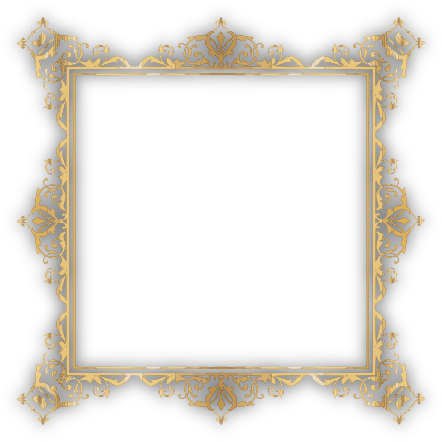
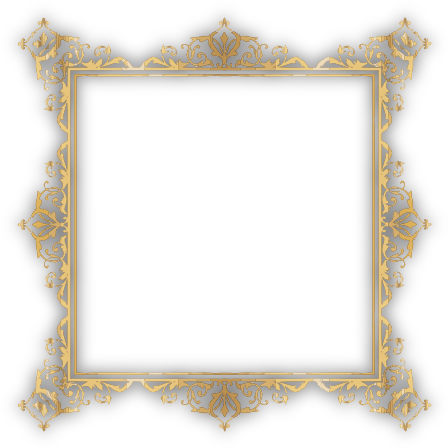
minified files 2024-11-28 00:40:13

diff --git a/index.html b/index.html
@@ -1,7 +1,7 @@
 <!doctype html><html lang=en><meta charset=utf-8><meta name=viewport content="width=device-width,initial-scale=1"><meta name=description content="A holy site for all NEETs, celebrating St. Pepe's financial miracle."><meta name=color-scheme content="light dark"><meta name=robots content="index, follow"><meta name=keywords content="saint pepe,st pepe,book of saint pepe,neet,crypto,memecoin,solana memecoin"><meta content="Ym9va29mc2FpbnRwZXBlLmNvbQ=="><link rel=preload href=code/fonts/vinque.otf as=font type=font/otf crossorigin=anonymous><link rel=preload href=images/stpepe-home.webp as=image type=image/webp><link rel=preload href=images/bg-sky.webp as=image type=image/webp><link rel=stylesheet href=code/css/style.css><title>𝖘𝖙 𝖕𝖊𝖕𝖊&nbsp;&nbsp;✠&nbsp;&nbsp;𝖕𝖆𝖙𝖗𝖔𝖓 𝖘𝖆𝖎𝖓𝖙 𝖔𝖋 𝖆𝖑𝖑 𝖓𝖊𝖊𝖙𝖘</title><script type=application/ld+json>{"@context":"http://schema.org","@type":"WebSite","name":"bookofsaintpepe.com ✠ Saint Pepe","url":"https://www.bookofsaintpepe.com","description":"A holy site for all NEETs, celebrating St. Pepe's financial miracle.","publisher":{"@type":"Organization","name":"Book of Saint Pepe Team - A Community-Driven Memecoin"}}</script><meta property="og:title" content="bookofsaintpepe.com ✠ Saint Pepe"><meta property="og:description" content="A holy site for all NEETs, celebrating St. Pepe's financial miracle."><meta property="og:image" content="https://www.bookofsaintpepe.com/images/saint-pepe-open-graph.jpg"><meta property="og:url" content="https://www.bookofsaintpepe.com/"><meta property="og:type" content="website"><meta property="og:locale" content="en_US"><meta name=twitter:card content="summary_large_image"><meta name=twitter:site content="@dig_dopa_dealer"><meta name=twitter:title content="bookofsaintpepe.com ✠ Saint Pepe"><meta name=twitter:description content="A holy site for all NEETs, celebrating St. Pepe's financial miracle."><meta name=twitter:image content="https://www.bookofsaintpepe.com/images/saint-pepe-x-card.jpg"><link rel=icon type=image/x-icon href=images/favicon.ico><link rel=apple-touch-icon sizes=180x180 href=images/apple-touch-icon.webp><style>.stpepe-home{margin-top:calc(-150px - 12%);opacity:0;transition:opacity .1s ease-out;display:block}.stpepe-home:not(:defined){opacity:1}.section-home{opacity:0;transition:opacity .1s ease-out;display:block;height:100vh}.section-home:not(:defined){opacity:1}@media(max-width:767px){.stpepe-home{margin-top:0;margin-bottom:-20%;position:relative;z-index:-200;padding:0 6%}.btn-buy{margin:.5em 0}.btn-gold-div{margin-top:-58%!important;position:relative}#text-box-mobile{margin-top:-37%;margin-bottom:37%}}</style><div id=section-home class=section style=background-image:url(images/bg-sky.webp);background-size:cover;background-repeat:no-repeat;padding-top:2%><div class=menu-wrapper style=z-index:2;margin-bottom:6%><input type=checkbox id=menu-toggle class=menu-toggle-checkbox>
 <label for=menu-toggle class=menu-toggle-label>☰</label><div class="menu pure-menu pure-menu-horizontal"><ul class=pure-menu-list><li class=pure-menu-item><a href=#about class=pure-menu-link>About</a><li class=pure-menu-item><a href=#tokenomics class=pure-menu-link>Tokenomics</a><li class=pure-menu-item><a href=#how class=pure-menu-link>How to buy</a><li class="pure-menu-item desktop"><a style=margin-top:.1em href="https://raydium.io/swap/?inputMint=sol&outputMint=Et63bkNtgp7nyvBMBxjKGBCjxet9Hrvm7qXpjnYSbKGh" class="pure-menu-link btn btn-buy">Buy Now</a><li class="pure-menu-item pure-menu-has-children"><a href=# class=pure-menu-link><img src=images/flag-US.webp class=flag>English</a><ul class=pure-menu-children><li class=pure-menu-item><a href=de/index.html class=pure-menu-link><img src=images/flag-DE.webp class=flag>German</a><li class=pure-menu-item><a href=jp/index.html class=pure-menu-link><img src=images/flag-JP.webp class=flag>Japanese</a><li class=pure-menu-item><a href=ru/index.html class=pure-menu-link><img src=images/flag-RU.webp class=flag>Russian</a><li class=pure-menu-item><a href=cn/index.html class=pure-menu-link><img src=images/flag-CN.webp class=flag>Chinese</a><li class=pure-menu-item><a href=es/index.html class=pure-menu-link><img src=images/flag-ES.webp class=flag>Spanish</a><li class=pure-menu-item><a href=br class=pure-menu-link><img src=images/flag-BR.webp class=flag>Portuguese</a><li class=pure-menu-item><a href=in/index.html class=pure-menu-link><img src=images/flag-IN.webp class=flag>Hindi</a><li class=pure-menu-item><a href=il/index.html class=pure-menu-link><img src=images/flag-IL.webp class=flag>Hebrew</a></ul></ul></div></div><script>window.addEventListener("load",function(){document.body.style.display="block",document.querySelector(".stpepe-home").style.opacity=1})</script><div class=pure-g><div class=pure-u-1-1 style=text-align:center><img style="width:32%;height:auto;min-width:300px;max-width:737px;padding-top:calc(15px + 2%);margin-top:-2%" src=images/logo-shadow.webp></div><div class="pure-u-1-1 mobile" style=text-align:center><a style=margin-top:-2%;margin-bottom:4% href="https://raydium.io/swap/?inputMint=sol&outputMint=Et63bkNtgp7nyvBMBxjKGBCjxet9Hrvm7qXpjnYSbKGh" class="pure-menu-link btn btn-buy">Buy Now</a></div><div class="pure-u-1-1 pure-u-md-11-24"><img class=stpepe-home style=display:block;max-width:100%;height:auto;z-index:0;width:100%;max-width:580px src=images/stpepe-home.webp><br></div><div class="pure-u-1 pure-u-md-13-24 centered"><div class=pure-g><div class=pure-u-1-1 style=margin-bottom:0;z-index:202><p style="text-align:center;margin:-12% 0 0" class=btn-gold-div><span class=btn-gold><img class=btn-gold src=images/icon-tg-new.webp style=width:15%;max-width:153px;min-width:70px></span>
 <span class=btn-gold><img class=btn-gold src=images/icon-x-new.webp style=width:15%;max-width:153px;min-width:70px></span></div><div class=pure-u-1-1><div><div class=text-box id=text-box-mobile style=z-index:200;position:relative><p style="margin:-1% 0 0">❝Blessed are the followers of <b>Saint Pepe</b>, for they shall receive <b>meme miracles</b>, find joy in simplicity, and be uplifted in unity.❞</div></div></div></div></div></div></div><div id=about style="margin-top:-11vh;background-image:linear-gradient(to bottom,#690001,#7D0707),url(images/bg-xv2.webp);background-blend-mode:overlay;position:relative;z-index:1;box-shadow:0 1px 8px rgba(0,0,0,.7)"><div style="background-image:url(images/separator2.webp);background-repeat:repeat-x;background-size:contain;height:4.3vw;max-height:70px;min-height:30px;width:auto;box-shadow:0 5px 8px rgba(0,0,0,.7)"></div><div class=section><div class=pure-g><div class=pure-u-1><p style=text-align:center><img src=images/dec-church.webp style="width:40%;min-width:260px;height:auto;max-width:524px;margin:0 0 -2em"><h1 class=golden-text style=margin-bottom:-3%>About</h1></div><div class=pure-u-12-24><p style=text-align:left;margin-top:-2%><img loading=lazy src=images/dec-cross-round.webp style="width:8%;height:auto;max-width:90px;margin:0 0 -1em 2%"></div><div class=pure-u-12-24><p style=text-align:right;margin-top:-2%><img loading=lazy src=images/dec-cross-round.webp style="width:8%;height:auto;max-width:90px;margin:0 2% -1em 0"></div><div class=pure-u-1 style="margin-top:-2%;background:#e8bd84;background-image:linear-gradient(to bottom,#E8BD84,#F7EAC8);padding:1px;margin:1% 1% 5%;box-shadow:0 1px 8px rgba(0,0,0,.7)"></div><div class="pure-u-1 pure-u-md-12-24"><div class=text-box style=color:#241f1c><h2>Saint Pepe<br>Patron Saint of All NEETs</h2><hr><p>St. Pepe lived an idle life, <b>never having worked a day in his life.</b> Through his staunch belief in not laboring, he became wealthy after heeding a holy opportunity, presented to him through a call in a basket-weaving forum. Now, after his physical death, he was canonized for his financial miracle, and promises hope to all who shun toiling and rewards their faith in him with the <b>holiest of gains</b>, through the asset of his Books.<p style=text-align:center><a href=# class="pure-menu-link btn btn-buy" style=box-shadow:none>Read the Book of St. Pepe</a></div></div><div class="pure-u-1 pure-u-md-12-24"><p style=text-align:center><img loading=lazy class=pure-img style="width:100%;height:auto;max-width:630px;margin:-3% 0 0" src=images/frame-pepe-laugh.webp></div></div></div></div><div id=tokenomics style="background-image:linear-gradient(to bottom,#2A211E,#201817),url(images/bg-xv2.webp);background-blend-mode:overlay;position:relative;margin-top:-1%;z-index:998"><div style="background-image:url(images/separator2.webp);background-repeat:repeat-x;background-size:contain;height:4.3vw;max-height:70px;min-height:30px;width:auto;box-shadow:0 5px 8px rgba(0,0,0,.7)"></div><div class=section style=padding-bottom:0><div class=pure-g><div class=pure-u-1><p style=text-align:center><img loading=lazy src=images/dec-abacus.webp style="width:15%;min-width:80px;height:auto;max-width:178px;margin:0 0 -2em"><h1 class=golden-text style=margin-bottom:-3%>Tokenomics</h1></div><div class=pure-u-12-24><p style=text-align:left;margin-top:-2%><img loading=lazy src=images/dec-cross-round.webp style="width:8%;height:auto;max-width:90px;margin:0 0 -1em 2%"></div><div class=pure-u-12-24><p style=text-align:right;margin-top:-2%><img loading=lazy src=images/dec-cross-round.webp style="width:8%;height:auto;max-width:90px;margin:0 2% -1em 0"></div><div class=pure-u-1 style="margin-top:-2%;background:#e8bd84;background-image:linear-gradient(to bottom,#E8BD84,#F7EAC8);padding:1px;margin:1% 1% 5%;box-shadow:0 1px 8px rgba(0,0,0,.7)"></div><div class="pure-u-1 pure-u-md-12-24"><div class=text-box><p><b>Total Supply: 777,777,777</b></div><div class=text-box><p><b>Liquidity: Consumed by Holy Fire</b></div></div><div class="pure-u-1 pure-u-md-12-24"><div class=text-box><p><b>Buy/Sell Tax: 0%</b></div><div class=text-box><p><b>Contract: Renounced of Sin</b></div></div></div><div class=pure-g><div class=pure-u-1><h1 class=golden-text style=text-align:center;margin-top:4%>Distribution</h1></div><div class=pure-u-12-24><p style=text-align:left;margin-top:-2%><img loading=lazy src=images/dec-cross-round.webp style="width:8%;height:auto;max-width:90px;margin:0 0 -1em 2%"></div><div class=pure-u-12-24><p style=text-align:right;margin-top:-2%><img loading=lazy src=images/dec-cross-round.webp style="width:8%;height:auto;max-width:90px;margin:0 2% -1em 0"></div><div class=pure-u-1 style="margin-top:-2%;background:#e8bd84;background-image:linear-gradient(to bottom,#E8BD84,#F7EAC8);padding:1px;margin:1% 1% 5%;box-shadow:0 1px 8px rgba(0,0,0,.7)"></div><div class=pure-u-1><p style=text-align:center><img loading=lazy class=pure-img style=position:relative;float:center;width:100%;height:auto;max-width:1230px;padding-top:3% src=images/distribution.webp></div><div class=pure-u-1><img loading=lazy class=pure-img style=float:left;margin-top:-33%;position:relative;width:33%;heigth:auto;max-width:400px src=images/stpepe-sheep.webp></div></div></div><img loading=lazy class=pure-img style="position:relative;width:100%;height:auto;margin:-2% 0 0" src=images/bg-rough-top.webp></div><div id=prayer class=section style=background:#263760><div class=pure-g><div class="pure-u-1 pure-u-lg-12-24"><div style=padding-right:15%><h2 class=golden-text style=text-align:left>Send your prayer</h2><br><input id=prayerInput class=input placeholder="Enter your prayer here"><br><br><label class=checkbox><input id=termsCheckbox type=checkbox>
-<span style=color:#fff>&nbsp;I agree to the sacred terms</span></label><p style=text-align:left><button id=submitButton class=btn-normal>Send prayer</button></p><br><br></div></div><div class="pure-u-1 pure-u-lg-12-24"><div><h2 class=golden-text style=text-align:left>Latest prayers</h2><p><button id=fetchButton class=btn-normal style=background-color:#28a745>Read the latest prayers</button><div class=prayers-list><ul id=prayersContainer></ul></div><br><br></div></div></div></div><img loading=lazy class=pure-img style="position:relative;z-index:1001;width:100%;height:auto;margin:-2% 0 0" src=images/bg-rough-bottom.webp><div id=tokenomics style="background-image:linear-gradient(to bottom,#2A211E,#201817),url(images/bg-xv2.webp);background-blend-mode:overlay;position:relative;z-index:2;margin-top:-3%;z-index:1000"><div class=section><div class=pure-g><div class=pure-u-1><p style=text-align:center><img loading=lazy src=images/dec-carriage.webp style="width:15%;min-width:80px;height:auto;max-width:234px;margin:0 0 -2.5em"><h1 class=golden-text style=margin-bottom:-3%>Roadmap</h1></div><div class=pure-u-12-24><p style=text-align:left;margin-top:-2%><img loading=lazy src=images/dec-cross-round.webp style="width:8%;height:auto;max-width:90px;margin:0 0 -1em 2%"></div><div class=pure-u-12-24><p style=text-align:right;margin-top:-2%><img loading=lazy src=images/dec-cross-round.webp style="width:8%;height:auto;max-width:90px;margin:0 2% -1em 0"></div><div class=pure-u-1 style="margin-top:-2%;background:#e8bd84;background-image:linear-gradient(to bottom,#E8BD84,#F7EAC8);padding:1px;margin:1% 1% 5%;box-shadow:0 1px 8px rgba(0,0,0,.7)"></div><div class="pure-u-1 pure-u-md-8-24"><h2 class=golden-text>To-do</h2><div class=text-box style=color:#241f1c><p class=kb>Exchange listing disclosures<p class=kb>Exchange listing disclosures<p class=kb>Exchange listing disclosures<p class=kb>Exchange listing disclosures<p class=kb>Exchange listing disclosures</div></div><div class="pure-u-1 pure-u-md-8-24"><h2 class=golden-text>Being Done</h2><div class=text-box style=color:#241f1c><p class=kb>Exchange listing disclosures<p class=kb>Exchange listing disclosures<p class=kb>Exchange listing disclosures<p class=kb>Exchange listing disclosures<p class=kb>Exchange listing disclosures</div></div><div class="pure-u-1 pure-u-md-8-24"><h2 class=golden-text>Done</h2><div class=text-box style=color:#241f1c><p class=kb>Exchange listing disclosures <span style=white-space:nowrap>✅ Nov 27 2024</span><p class=kb>Exchange listing disclosures <span style=white-space:nowrap>✅ Nov 27 2024</span><p class=kb>Exchange listing disclosures <span style=white-space:nowrap>✅ Nov 27 2024</span><p class=kb>Exchange listing disclosures <span style=white-space:nowrap>✅ Nov 27 2024</span><p class=kb>Exchange listing disclosures <span style=white-space:nowrap>✅ Nov 27 2024</span></div></div></div></div></div><img loading=lazy class=pure-img style="position:relative;z-index:1000;width:100%;height:auto;margin:-2% 0 0" src=images/bg-disciples.webp><div id=roadmap style="background-image:linear-gradient(to bottom,#690001,#7D0707),url(images/bg-xv2.webp);background-blend-mode:overlay;position:relative;z-index:2;margin-top:-2%;z-index:999;box-shadow:0 1px 8px rgba(0,0,0,.7)"><div class=section><div class=pure-g><div class=pure-u-1><p style=text-align:center><img loading=lazy src=images/dec-church.webp style="width:40%;min-width:260px;height:auto;max-width:524px;margin:0 0 -2em"><h1 class=golden-text style=margin-bottom:-3%>Creed</h1></div><div class=pure-u-12-24><p style=text-align:left;margin-top:-2%><img loading=lazy src=images/dec-cross-round.webp style="width:8%;height:auto;max-width:90px;margin:0 0 -1em 2%"></div><div class=pure-u-12-24><p style=text-align:right;margin-top:-2%><img loading=lazy src=images/dec-cross-round.webp style="width:8%;height:auto;max-width:90px;margin:0 2% -1em 0"></div><div class=pure-u-1 style="margin-top:-2%;background:#e8bd84;background-image:linear-gradient(to bottom,#E8BD84,#F7EAC8);padding:1px;margin:1% 1% 5%;box-shadow:0 1px 8px rgba(0,0,0,.7)"></div><div class="pure-u-1 pure-u-md-12-24"><div style=color:#241f1c><img loading=lazy class=pure-img style="float:center;width:100%;height:auto;max-width:620px;margin:4% 0 0" src=images/bg-scroll.webp><div style="position:relative;margin:-120% 20% 80%"><h2>St. Pepe's Creed<br><br></h2><p><b>❈ Be a NEET<br><br>❈ Hold token<br><br>❈ Trust me bro</b></div></div></div><div class="pure-u-1 pure-u-md-12-24"><p style=text-align:center><br><br><br><br><img loading=lazy class=pure-img style="width:100%;height:auto;max-width:630px;margin:-3% 0 0" src=images/frame-pepe-wagie.webp></div></div></div></div><div id=how style="background-image:linear-gradient(to bottom,#101626,#18223A),url(images/bg-xv2.webp);background-blend-mode:overlay;position:relative;z-index:2;margin-top:-1%;z-index:1000"><div style="background-image:url(images/separator2.webp);background-repeat:repeat-x;background-size:contain;height:4.3vw;max-height:70px;min-height:30px;width:auto;box-shadow:0 1px 8px rgba(0,0,0,.7)"></div><div class=section style=padding-bottom:0><div class=pure-g><div class=pure-u-1><p style=text-align:center><img loading=lazy src=images/dec-chest.webp style="width:15%;min-width:80px;height:auto;max-width:217px;margin:0 0 -2.5em"><h1 class=golden-text style=margin-bottom:-3%>How to buy</h1></div><div class=pure-u-12-24><p style=text-align:left;margin-top:-2%><img loading=lazy src=images/dec-cross-round.webp style="width:8%;height:auto;max-width:50px;margin:0 0 -1em 2%"></div><div class=pure-u-12-24><p style=text-align:right;margin-top:-2%><img loading=lazy src=images/dec-cross-round.webp style="width:8%;height:auto;max-width:50px;margin:0 2% -1em 0"></div><div class=pure-u-1 style="margin-top:-2%;background:#e8bd84;background-image:linear-gradient(to bottom,#E8BD84,#F7EAC8);padding:1px;margin:1% 1% 5%;box-shadow:0 1px 8px rgba(0,0,0,.7)"></div><div class="pure-u-1 pure-u-lg-12-24"><div class=text-box style="color:#241f1c;margin:3% 1.5%"><div class=pure-g><div class=pure-u-4-24><img loading=lazy src=images/dec-1.webp style=width:4.1vw;height:auto;max-width:78px;min-width:50px></div><div class=pure-u-16-24><h2>Use Phantom<br>Wallet</h2><hr></div><div class=pure-u-4-24><img loading=lazy src=images/buy-1.webp style=float:right;width:4.1vw;height:auto;max-width:78px;min-width:50px></div><div class=pure-u-1><p>Get Phantom Wallet for free from the App Store, Google Play, or as a Chrome extension at phantom.app. Ensure you only download from official sources to keep your assets safe.</div></div></div></div><div class="pure-u-1 pure-u-lg-12-24"><div class=text-box style="color:#241f1c;margin:3% 1.5%"><div class=pure-g><div class=pure-u-4-24><img loading=lazy src=images/dec-2.webp style=width:4.1vw;height:auto;max-width:78px;min-width:50px></div><div class=pure-u-16-24><h2>Add<br>Solana</h2><hr></div><div class=pure-u-4-24><img loading=lazy src=images/buy-2.webp style=float:right;width:4.1vw;height:auto;max-width:78px;min-width:50px></div><div class=pure-u-1><p>Fund your wallet with SOL by buying it in Phantom, transferring from another wallet, bridging from another chain, or purchasing on an exchange. Double-check wallet addresses during transfers.</div></div></div></div><div class="pure-u-1 pure-u-lg-12-24"><div class=text-box style="color:#241f1c;margin:3% 1.5%"><div class=pure-g><div class=pure-u-4-24><img loading=lazy src=images/dec-3.webp style=width:4.1vw;height:auto;max-width:78px;min-width:50px></div><div class=pure-u-16-24><h2>Access<br>Raydium</h2><hr></div><div class=pure-u-4-24><img loading=lazy src=images/buy-3.webp style=float:right;width:4.1vw;height:auto;max-width:122px;min-width:50px></div><div class=pure-u-1><p>Open raydium.io in your browser or Phantom’s built-in browser. Connect your wallet securely, select SOL in “You’re paying” and paste the $SAINTPEPE token address in “To receive.” Confirm the transaction and sign.</div></div></div></div><div class="pure-u-1 pure-u-lg-12-24"><div class=text-box style="color:#241f1c;margin:3% 1.5%"><div class=pure-g><div class=pure-u-4-24><img loading=lazy src=images/dec-4.webp style=width:4.1vw;height:auto;max-width:122px;min-width:50px></div><div class=pure-u-16-24><h2>Swap Solana<br>for $SaintPepe</h2><hr></div><div class=pure-u-4-24><img loading=lazy src=images/buy-4.webp style=float:right;width:4.1vw;height:auto;max-width:122px;min-width:50px></div><div class=pure-u-1><p>Exchange your Solana (SOL) tokens for $SAINTPEPE. No taxes apply, so slippage is not usually needed. During high market activity, enable slippage if necessary. Confirm everything carefully before proceeding.</div></div></div></div><div class=pure-u-1><div style=padding-right:40%><h2 class=golden-text style=text-align:left;margin-top:4%>How Can I Help You, Child?</h2><br><p class=white-text>Having trouble buying @SAINTPEPE? Chat with our real human Church Assistoor on Telegram for help! Use the official link below to avoid fake accounts.<br><br><span style=font-size:.7em>Official Telegram:</span><br><span style=font-size:1.3em>t.me/ChurchAssistoor</span></div></div><div class=pure-u-1><img loading=lazy class=pure-img style=float:right;margin-top:-28%;position:relative;width:33%;heigth:auto src=images/assistoor.webp></div></div></div></div><img loading=lazy class=pure-img style="position:relative;z-index:1000;width:100%;height:auto;margin:-3% 0 0" src=images/bg-rough-top.webp></div><div id=disclaimer class=section style=background:#263760><div class=pure-g><div class=pure-u-1><div style=padding:0><h2 class=golden-text style=text-align:left>Disclaimer</h2><br><p class=white-text>$SAINTPEPE (this Solana Token) has no association with Matt Furie or his creation, Pepe the Frog. This token is simply paying homage to a meme we all love and recognize. $SAINTPEPE is a meme coin with no intrinsic value or expectation of financial return. There is no formal team or roadmap, it follows a holy plan that came to us in a dream. The coin is completely useless and for entertainment purposes only. This coin makes no claim on the salvation of your eternal soul and cannot be used as fiat in heaven or to purchase entry therein.<br><br>© 2024 BookOfSaintPepe.com. All rights reserved. Unauthorized copying is prohibited.</div></div></div></div><img loading=lazy class=pure-img style="position:relative;z-index:1001;width:100%;height:auto;margin:-2% 0 0" src=images/bg-rough-bottom.webp><div id=footer style="background-image:linear-gradient(to bottom,#241F1C,#000000),url(images/bg-xv2.webp);background-blend-mode:overlay;position:relative;z-index:2;margin-top:-3%;z-index:1000"><div class=section style=padding-bottom:2%><div class=pure-g style=text-align:center><div class="pure-u-1 pure-u-md-8-24"><img loading=lazy style="width:80%;height:auto;min-width:150px;max-width:340px;padding-top:calc(15px + 2%);margin-top:-2%" src=images/logo-footer.webp></div><div class="pure-u-12-24 pure-u-md-8-24"><p class=white-text>Telegram<p class=white-text>Twitter<p class=white-text>TikTok<p class=white-text>Instagram<p class=white-text>Media Kit</div><div class="pure-u-12-24 pure-u-md-8-24"><p class=white-text>DexTools<p class=white-text>Dex Screener<p class=white-text>Raydium<p class=white-text>Jupiter</div></div></div></div><div class=pure-g style=text-align:center><div class=pure-u-1><style>#floating-button{position:fixed;bottom:20px;left:20px;background-color:#007bff;color:#fff;border:none;border-radius:50%;width:60px;height:60px;font-size:24px;display:flex;align-items:center;justify-content:center;cursor:pointer;box-shadow:0 4px 8px rgba(0,0,0,.2);z-index:9998!important}#floating-button:hover{background-color:#0056b3}#music-player{position:fixed;bottom:50px;left:50px;width:300px;height:300px;background-image:linear-gradient(to bottom,#101626,#18223A),url(images/bg-xv2.webp);background-blend-mode:overlay;border:1px solid #ccc;border-radius:10px;box-shadow:0 4px 8px rgba(0,0,0,.2);display:none;flex-direction:column;padding:15px}#music-player-header{display:flex;justify-content:space-between;align-items:center;margin-bottom:10px}#music-player-header h3{margin:0;font-size:18px}#minimize-button{background-color:initial;border:none;color:#007bff;font-size:20px;cursor:pointer}#playlist ul{list-style-type:none;padding:0;margin:0}#playlist li{cursor:pointer;padding:5px;margin:5px;background-color:#f4f4f4;border:1px solid #ccc;border-radius:5px;transition:background-color .2s}#playlist li:hover{background-color:#ddd}button{padding:10px 15px;margin:5px;background-color:#007bff;color:#fff;border:none;border-radius:5px;cursor:pointer}button:hover{background-color:#0056b3}progress{width:100%;height:10px}#music-player{z-index:9999}.frame-container{position:relative;width:300px;height:300px}.content{position:absolute;top:0;left:0;width:100%;height:100%;z-index:1;padding:20px;box-sizing:border-box;overflow:hidden}.frame-overlay{position:absolute;top:-25px;left:0;width:350px;height:350px;z-index:1002;pointer-events:none}</style><button id=floating-button>🎵</button><div id=music-player><div class=frame-container><div class=content><div id=music-player-header><h3>Music Player</h3><button id=minimize-button>-</button></div><div id=playlist><ul><li amplitude-song-index=0>Song 1 - Artist 1<li amplitude-song-index=1>Song 2 - Artist 2<li amplitude-song-index=2>Song 3 - Artist 3</ul></div><div id=player><progress class=amplitude-song-played-progress id=song-progress></progress>
+<span style=color:#fff>&nbsp;I agree to the sacred terms</span></label><p style=text-align:left><button id=submitButton class=btn-normal>Send prayer</button></p><br><br></div></div><div class="pure-u-1 pure-u-lg-12-24"><div><h2 class=golden-text style=text-align:left>Latest prayers</h2><p><button id=fetchButton class=btn-normal style=background-color:#28a745>Read the latest prayers</button><div class=prayers-list><ul id=prayersContainer></ul></div><br><br></div></div></div></div><img loading=lazy class=pure-img style="position:relative;z-index:1001;width:100%;height:auto;margin:-2% 0 0" src=images/bg-rough-bottom.webp><div id=tokenomics style="background-image:linear-gradient(to bottom,#2A211E,#201817),url(images/bg-xv2.webp);background-blend-mode:overlay;position:relative;z-index:2;margin-top:-3%;z-index:1000"><div class=section><div class=pure-g><div class=pure-u-1><p style=text-align:center><img loading=lazy src=images/dec-carriage.webp style="width:15%;min-width:80px;height:auto;max-width:234px;margin:0 0 -2.5em"><h1 class=golden-text style=margin-bottom:-3%>Roadmap</h1></div><div class=pure-u-12-24><p style=text-align:left;margin-top:-2%><img loading=lazy src=images/dec-cross-round.webp style="width:8%;height:auto;max-width:90px;margin:0 0 -1em 2%"></div><div class=pure-u-12-24><p style=text-align:right;margin-top:-2%><img loading=lazy src=images/dec-cross-round.webp style="width:8%;height:auto;max-width:90px;margin:0 2% -1em 0"></div><div class=pure-u-1 style="margin-top:-2%;background:#e8bd84;background-image:linear-gradient(to bottom,#E8BD84,#F7EAC8);padding:1px;margin:1% 1% 5%;box-shadow:0 1px 8px rgba(0,0,0,.7)"></div><div class="pure-u-1 pure-u-md-8-24"><h2 class=golden-text>To-do</h2><div class=text-box style=color:#241f1c><p class=kb>Exchange listing disclosures<p class=kb>Exchange listing disclosures<p class=kb>Exchange listing disclosures<p class=kb>Exchange listing disclosures<p class=kb>Exchange listing disclosures</div></div><div class="pure-u-1 pure-u-md-8-24"><h2 class=golden-text>Being Done</h2><div class=text-box style=color:#241f1c><p class=kb>Exchange listing disclosures<p class=kb>Exchange listing disclosures<p class=kb>Exchange listing disclosures<p class=kb>Exchange listing disclosures<p class=kb>Exchange listing disclosures</div></div><div class="pure-u-1 pure-u-md-8-24"><h2 class=golden-text>Done</h2><div class=text-box style=color:#241f1c><p class=kb>Exchange listing disclosures <span style=white-space:nowrap>✅ Nov 27 2024</span><p class=kb>Exchange listing disclosures <span style=white-space:nowrap>✅ Nov 27 2024</span><p class=kb>Exchange listing disclosures <span style=white-space:nowrap>✅ Nov 27 2024</span><p class=kb>Exchange listing disclosures <span style=white-space:nowrap>✅ Nov 27 2024</span><p class=kb>Exchange listing disclosures <span style=white-space:nowrap>✅ Nov 27 2024</span></div></div></div></div></div><img loading=lazy class=pure-img style="position:relative;z-index:1000;width:100%;height:auto;margin:-2% 0 0" src=images/bg-disciples.webp><div id=roadmap style="background-image:linear-gradient(to bottom,#690001,#7D0707),url(images/bg-xv2.webp);background-blend-mode:overlay;position:relative;z-index:2;margin-top:-2%;z-index:999;box-shadow:0 1px 8px rgba(0,0,0,.7)"><div class=section><div class=pure-g><div class=pure-u-1><p style=text-align:center><img loading=lazy src=images/dec-church.webp style="width:40%;min-width:260px;height:auto;max-width:524px;margin:0 0 -2em"><h1 class=golden-text style=margin-bottom:-3%>Creed</h1></div><div class=pure-u-12-24><p style=text-align:left;margin-top:-2%><img loading=lazy src=images/dec-cross-round.webp style="width:8%;height:auto;max-width:90px;margin:0 0 -1em 2%"></div><div class=pure-u-12-24><p style=text-align:right;margin-top:-2%><img loading=lazy src=images/dec-cross-round.webp style="width:8%;height:auto;max-width:90px;margin:0 2% -1em 0"></div><div class=pure-u-1 style="margin-top:-2%;background:#e8bd84;background-image:linear-gradient(to bottom,#E8BD84,#F7EAC8);padding:1px;margin:1% 1% 5%;box-shadow:0 1px 8px rgba(0,0,0,.7)"></div><div class="pure-u-1 pure-u-md-12-24"><div style=color:#241f1c><img loading=lazy class=pure-img style="float:center;width:100%;height:auto;max-width:620px;margin:4% 0 0" src=images/bg-scroll.webp><div style="position:relative;margin:-120% 20% 80%"><h2>St. Pepe's Creed<br><br></h2><p><b>❈ Be a NEET<br><br>❈ Hold token<br><br>❈ Trust me bro</b></div></div></div><div class="pure-u-1 pure-u-md-12-24"><p style=text-align:center><br><br><br><br><img loading=lazy class=pure-img style="width:100%;height:auto;max-width:630px;margin:-3% 0 0" src=images/frame-pepe-wagie.webp></div></div></div></div><div id=how style="background-image:linear-gradient(to bottom,#101626,#18223A),url(images/bg-xv2.webp);background-blend-mode:overlay;position:relative;z-index:2;margin-top:-1%;z-index:1000"><div style="background-image:url(images/separator2.webp);background-repeat:repeat-x;background-size:contain;height:4.3vw;max-height:70px;min-height:30px;width:auto;box-shadow:0 1px 8px rgba(0,0,0,.7)"></div><div class=section style=padding-bottom:0><div class=pure-g><div class=pure-u-1><p style=text-align:center><img loading=lazy src=images/dec-chest.webp style="width:15%;min-width:80px;height:auto;max-width:217px;margin:0 0 -2.5em"><h1 class=golden-text style=margin-bottom:-3%>How to buy</h1></div><div class=pure-u-12-24><p style=text-align:left;margin-top:-2%><img loading=lazy src=images/dec-cross-round.webp style="width:8%;height:auto;max-width:50px;margin:0 0 -1em 2%"></div><div class=pure-u-12-24><p style=text-align:right;margin-top:-2%><img loading=lazy src=images/dec-cross-round.webp style="width:8%;height:auto;max-width:50px;margin:0 2% -1em 0"></div><div class=pure-u-1 style="margin-top:-2%;background:#e8bd84;background-image:linear-gradient(to bottom,#E8BD84,#F7EAC8);padding:1px;margin:1% 1% 5%;box-shadow:0 1px 8px rgba(0,0,0,.7)"></div><div class="pure-u-1 pure-u-lg-12-24"><div class=text-box style="color:#241f1c;margin:3% 1.5%"><div class=pure-g><div class=pure-u-4-24><img loading=lazy src=images/dec-1.webp style=width:4.1vw;height:auto;max-width:78px;min-width:50px></div><div class=pure-u-16-24><h2>Use Phantom<br>Wallet</h2><hr></div><div class=pure-u-4-24><img loading=lazy src=images/buy-1.webp style=float:right;width:4.1vw;height:auto;max-width:78px;min-width:50px></div><div class=pure-u-1><p>Get Phantom Wallet for free from the App Store, Google Play, or as a Chrome extension at phantom.app. Ensure you only download from official sources to keep your assets safe.</div></div></div></div><div class="pure-u-1 pure-u-lg-12-24"><div class=text-box style="color:#241f1c;margin:3% 1.5%"><div class=pure-g><div class=pure-u-4-24><img loading=lazy src=images/dec-2.webp style=width:4.1vw;height:auto;max-width:78px;min-width:50px></div><div class=pure-u-16-24><h2>Add<br>Solana</h2><hr></div><div class=pure-u-4-24><img loading=lazy src=images/buy-2.webp style=float:right;width:4.1vw;height:auto;max-width:78px;min-width:50px></div><div class=pure-u-1><p>Fund your wallet with SOL by buying it in Phantom, transferring from another wallet, bridging from another chain, or purchasing on an exchange. Double-check wallet addresses during transfers.</div></div></div></div><div class="pure-u-1 pure-u-lg-12-24"><div class=text-box style="color:#241f1c;margin:3% 1.5%"><div class=pure-g><div class=pure-u-4-24><img loading=lazy src=images/dec-3.webp style=width:4.1vw;height:auto;max-width:78px;min-width:50px></div><div class=pure-u-16-24><h2>Access<br>Raydium</h2><hr></div><div class=pure-u-4-24><img loading=lazy src=images/buy-3.webp style=float:right;width:4.1vw;height:auto;max-width:122px;min-width:50px></div><div class=pure-u-1><p>Open raydium.io in your browser or Phantom’s built-in browser. Connect your wallet securely, select SOL in “You’re paying” and paste the $SAINTPEPE token address in “To receive.” Confirm the transaction and sign.</div></div></div></div><div class="pure-u-1 pure-u-lg-12-24"><div class=text-box style="color:#241f1c;margin:3% 1.5%"><div class=pure-g><div class=pure-u-4-24><img loading=lazy src=images/dec-4.webp style=width:4.1vw;height:auto;max-width:122px;min-width:50px></div><div class=pure-u-16-24><h2>Swap Solana<br>for $SaintPepe</h2><hr></div><div class=pure-u-4-24><img loading=lazy src=images/buy-4.webp style=float:right;width:4.1vw;height:auto;max-width:122px;min-width:50px></div><div class=pure-u-1><p>Exchange your Solana (SOL) tokens for $SAINTPEPE. No taxes apply, so slippage is not usually needed. During high market activity, enable slippage if necessary. Confirm everything carefully before proceeding.</div></div></div></div><div class=pure-u-1><div style=padding-right:40%><h2 class=golden-text style=text-align:left;margin-top:4%>How Can I Help You, Child?</h2><br><p class=white-text>Having trouble buying @SAINTPEPE? Chat with our real human Church Assistoor on Telegram for help! Use the official link below to avoid fake accounts.<br><br><span style=font-size:.7em>Official Telegram:</span><br><span style=font-size:1.3em>t.me/ChurchAssistoor</span></div></div><div class=pure-u-1><img loading=lazy class=pure-img style=float:right;margin-top:-28%;position:relative;width:33%;heigth:auto src=images/assistoor.webp></div></div></div></div><img loading=lazy class=pure-img style="position:relative;z-index:1000;width:100%;height:auto;margin:-3% 0 0" src=images/bg-rough-top.webp></div><div id=disclaimer class=section style=background:#263760><div class=pure-g><div class=pure-u-1><div style=padding:0><h2 class=golden-text style=text-align:left>Disclaimer</h2><br><p class=white-text>$SAINTPEPE (this Solana Token) has no association with Matt Furie or his creation, Pepe the Frog. This token is simply paying homage to a meme we all love and recognize. $SAINTPEPE is a meme coin with no intrinsic value or expectation of financial return. There is no formal team or roadmap, it follows a holy plan that came to us in a dream. The coin is completely useless and for entertainment purposes only. This coin makes no claim on the salvation of your eternal soul and cannot be used as fiat in heaven or to purchase entry therein.<br><br>© 2024 BookOfSaintPepe.com. All rights reserved. Unauthorized copying is prohibited.</div></div></div></div><img loading=lazy class=pure-img style="position:relative;z-index:1001;width:100%;height:auto;margin:-2% 0 0" src=images/bg-rough-bottom.webp><div id=footer style="background-image:linear-gradient(to bottom,#241F1C,#000000),url(images/bg-xv2.webp);background-blend-mode:overlay;position:relative;z-index:2;margin-top:-3%;z-index:1000"><div class=section style=padding-bottom:2%><div class=pure-g style=text-align:center><div class="pure-u-1 pure-u-md-8-24"><img loading=lazy style="width:80%;height:auto;min-width:150px;max-width:340px;padding-top:calc(15px + 2%);margin-top:-2%" src=images/logo-footer.webp></div><div class="pure-u-12-24 pure-u-md-8-24"><p class=white-text>Telegram<p class=white-text>Twitter<p class=white-text>TikTok<p class=white-text>Instagram<p class=white-text>Media Kit</div><div class="pure-u-12-24 pure-u-md-8-24"><p class=white-text>DexTools<p class=white-text>Dex Screener<p class=white-text>Raydium<p class=white-text>Jupiter</div></div></div></div><div class=pure-g style=text-align:center><div class=pure-u-1><style>#floating-button{position:fixed;bottom:20px;left:20px;background-color:#007bff;color:#fff;border:none;border-radius:50%;width:60px;height:60px;font-size:24px;display:flex;align-items:center;justify-content:center;cursor:pointer;box-shadow:0 4px 8px rgba(0,0,0,.2);z-index:9998!important}#floating-button:hover{background-color:#0056b3}#music-player{position:fixed;bottom:50px;left:50px;width:300px;height:300px;background-image:linear-gradient(to bottom,#101626,#18223A),url(images/bg-xv2.webp);background-blend-mode:overlay;border:1px solid #ccc;border-radius:10px;box-shadow:0 4px 8px rgba(0,0,0,.2);display:none;flex-direction:column;padding:15px}#music-player-header{display:flex;justify-content:space-between;align-items:center;margin-bottom:10px}#music-player-header h3{margin:0;font-size:18px}#minimize-button{background-color:initial;border:none;color:#007bff;font-size:20px;cursor:pointer}#playlist ul{list-style-type:none;padding:0;margin:0}#playlist li{cursor:pointer;padding:5px;margin:5px;background-color:#f4f4f4;border:1px solid #ccc;border-radius:5px;transition:background-color .2s}#playlist li:hover{background-color:#ddd}button{padding:10px 15px;margin:5px;background-color:#007bff;color:#fff;border:none;border-radius:5px;cursor:pointer}button:hover{background-color:#0056b3}progress{width:100%;height:10px}#music-player{z-index:9999}.frame-container{position:relative;width:300px;height:300px}.content{position:absolute;top:0;left:0;width:100%;height:100%;z-index:1;padding:20px;box-sizing:border-box;overflow:hidden}.frame-overlay{position:absolute;top:-74px;left:-74px;width:448px;height:448px;z-index:1002;pointer-events:none}</style><button id=floating-button>🎵</button><div id=music-player><div class=frame-container><div class=content><div id=music-player-header><h3>Music Player</h3><button id=minimize-button>-</button></div><div id=playlist><ul><li amplitude-song-index=0>Song 1 - Artist 1<li amplitude-song-index=1>Song 2 - Artist 2<li amplitude-song-index=2>Song 3 - Artist 3</ul></div><div id=player><progress class=amplitude-song-played-progress id=song-progress></progress>
 <button class=amplitude-prev>Prev</button>
 <button class=amplitude-play-pause>Play</button>
 <button class=amplitude-next>Next</button>

diff --git a/index-source.html b/index-source.html
@@ -759,10 +759,10 @@
 
 		.frame-overlay {
 		  position: absolute; /* Stacks over the content */
-		  top: -25px;
-		  left: 0;
-		  width: 350px;
-		  height: 350px;
+		  top: -74px;
+		  left: -74px;
+		  width: 448px;
+		  height: 448px;
 		  z-index: 1002; /* Ensures the frame is on top */
 		  pointer-events: none; /* Allows clicking through to the content */
 		}
